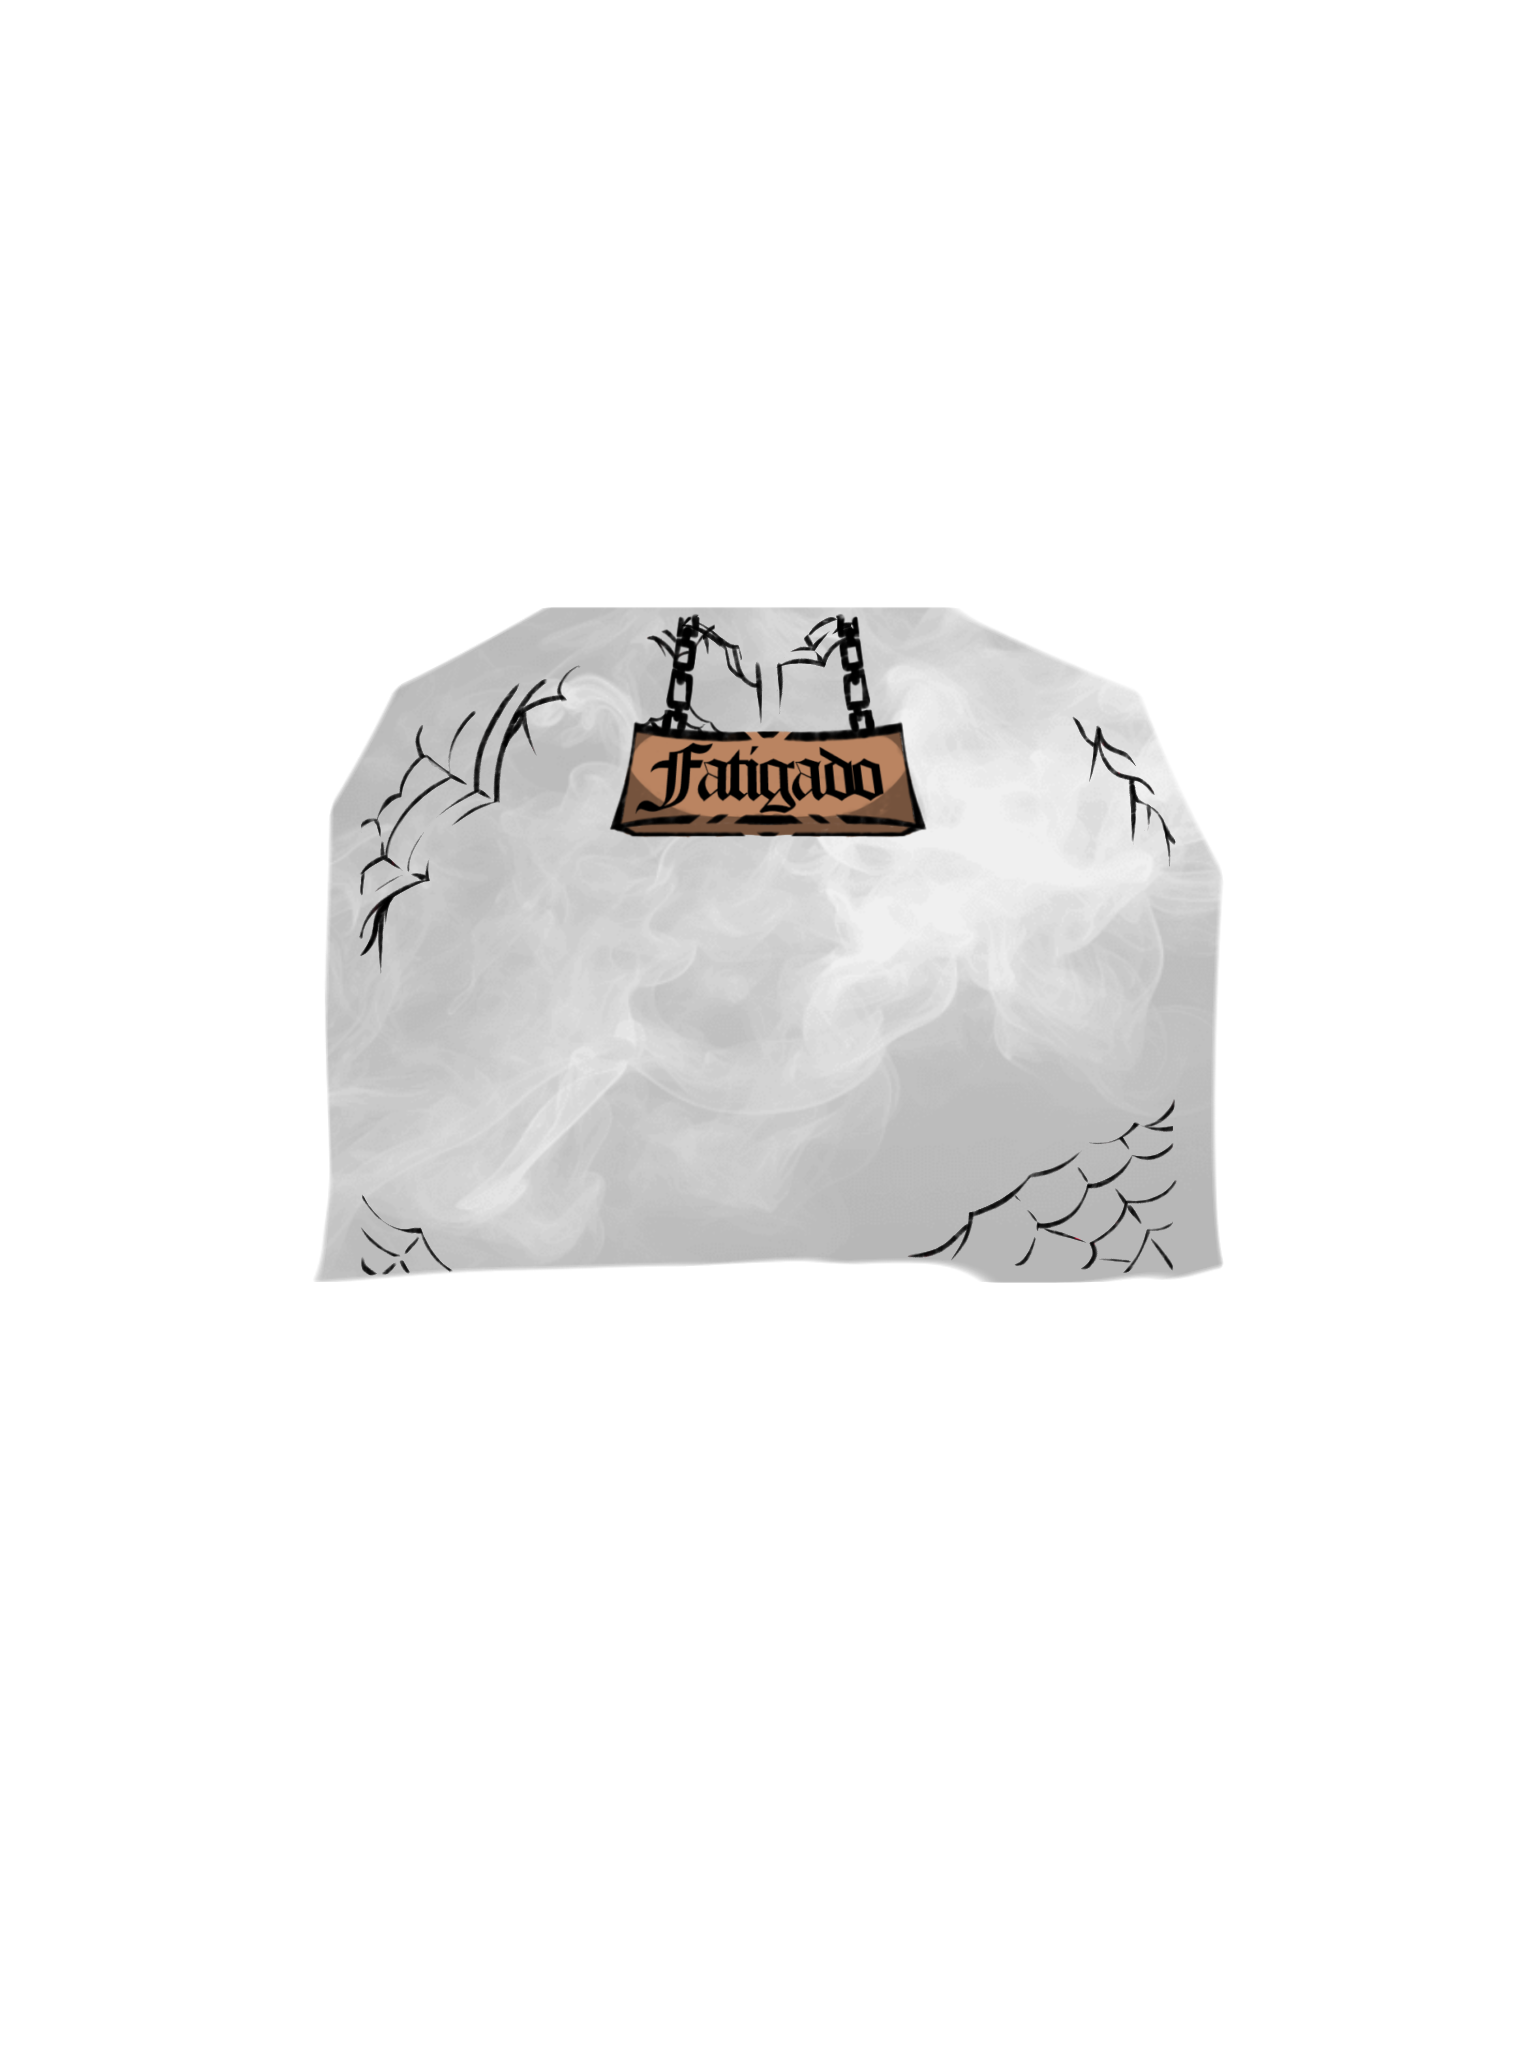
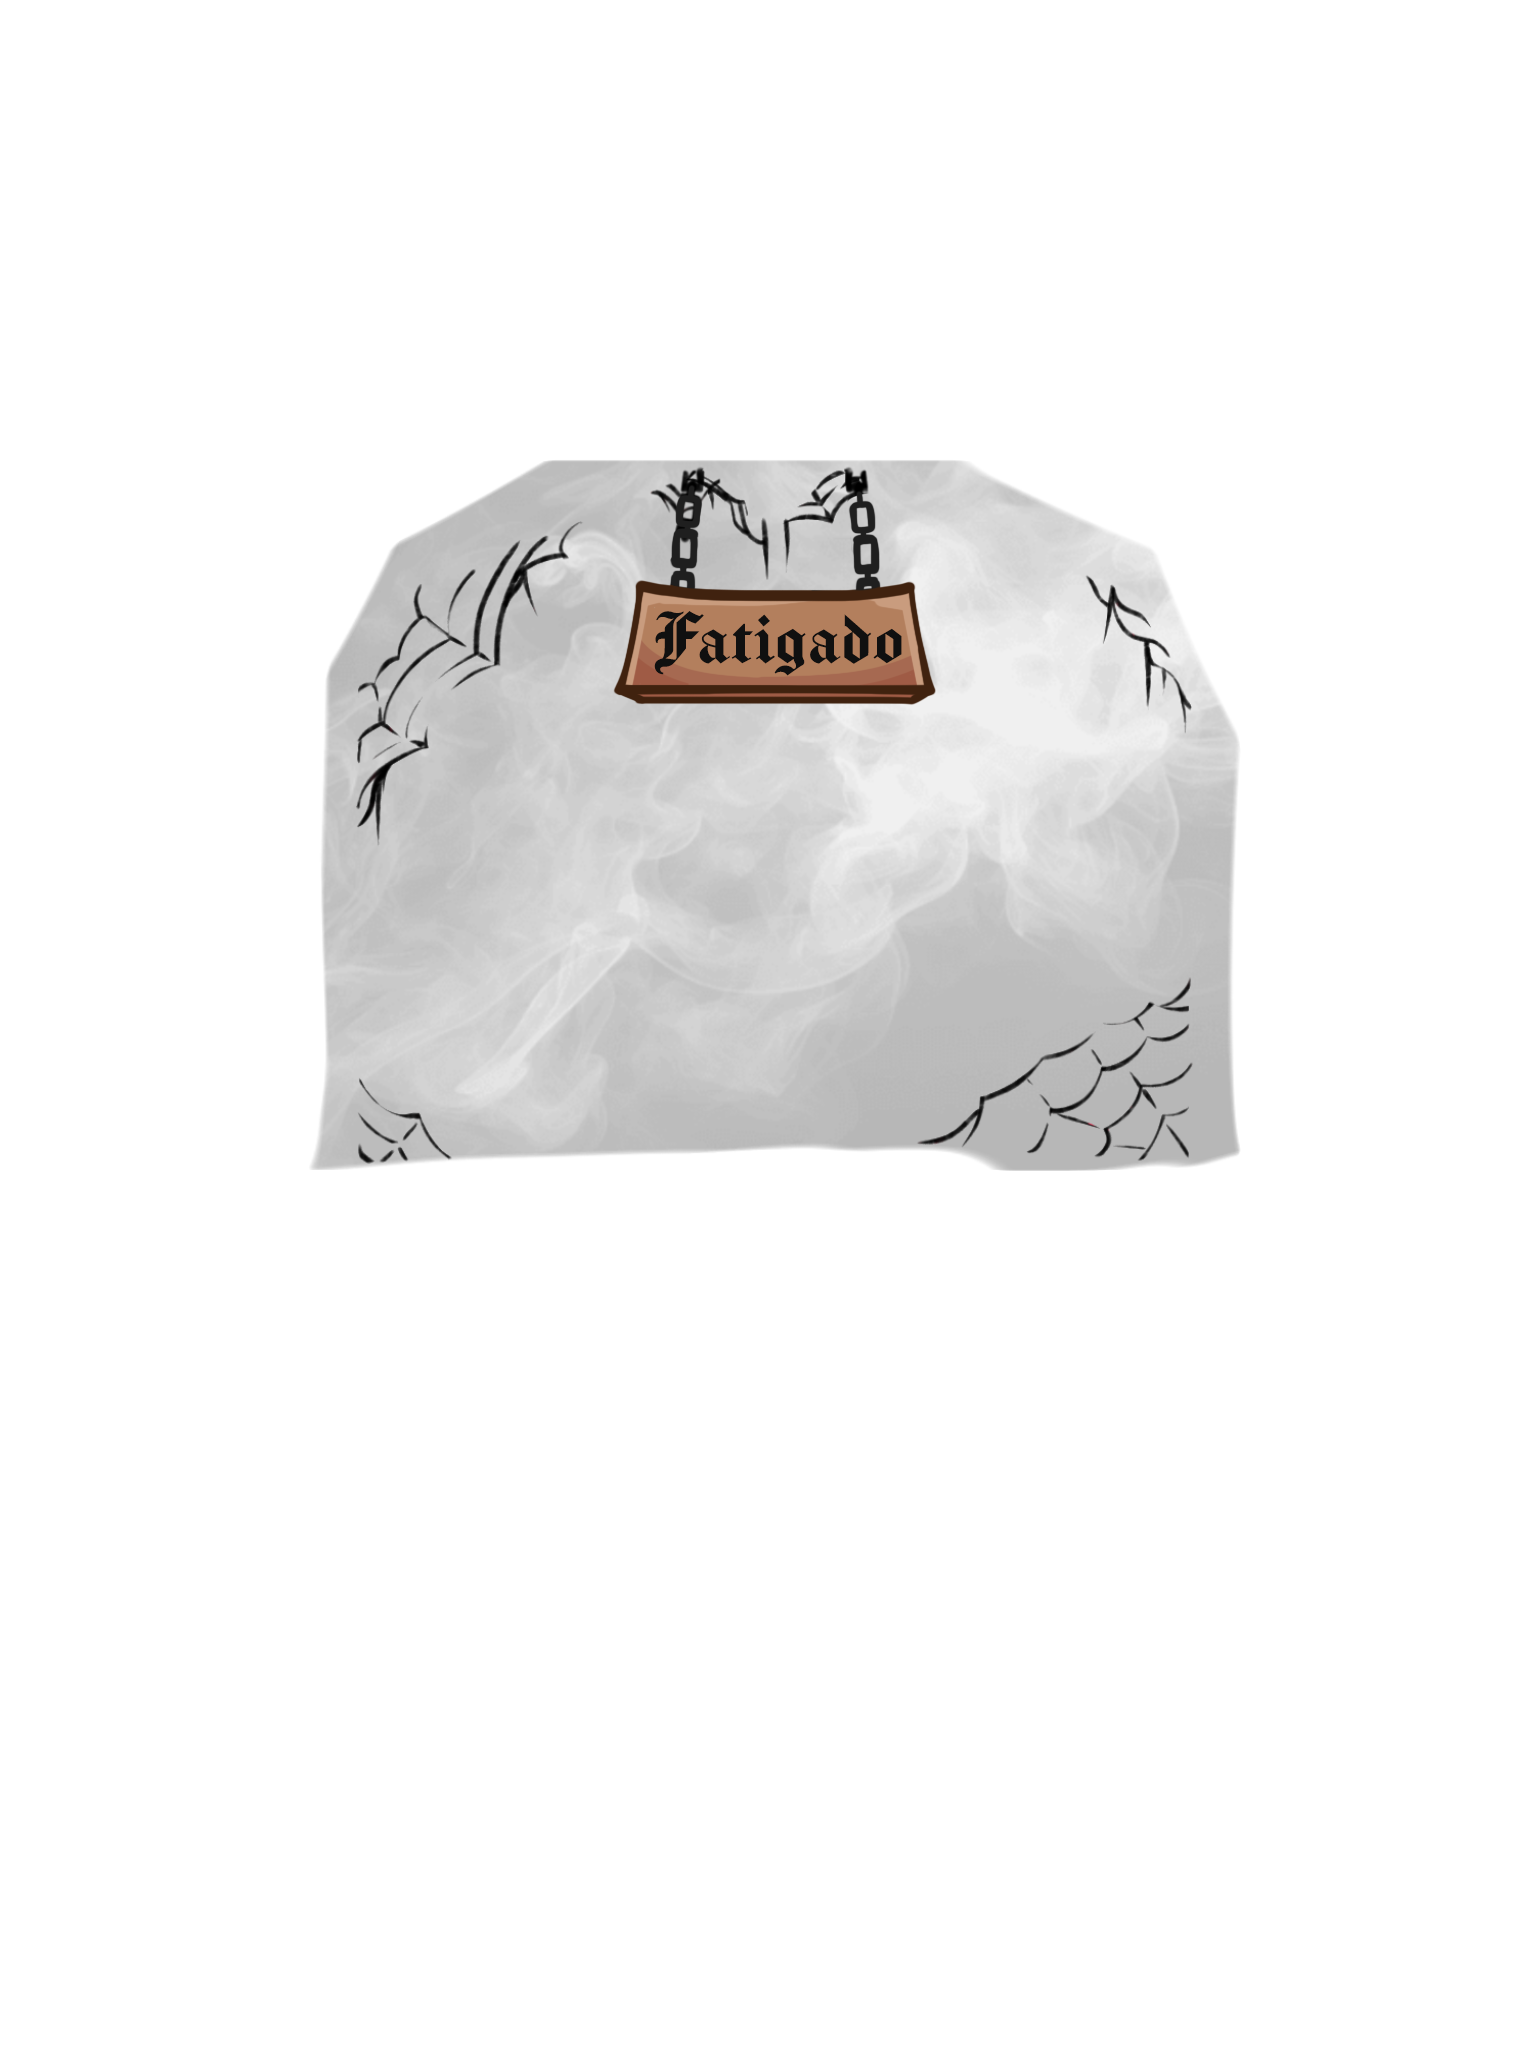
remake do layout de mythic bastionland

Changed region(s): [[0.1875, 0.2188, 0.8125, 0.625], [0.375, 0.5, 0.4375, 0.5312]]

diff --git a/pages/overlay/[id]/[charId].tsx b/pages/overlay/[id]/[charId].tsx
@@ -72,7 +72,7 @@ function OverlayCharacter() {
                 <img
                   src={character.icon}
                   alt={character.name}
-                  className="w-[12em] absolute left-[50%] top-[50%] translate-y-[-50%] translate-x-[-50%] select-none"
+                  className="w-[12em] absolute left-[50%] top-[42%] translate-y-[-50%] translate-x-[-50%] select-none"
                 />
                 {fatigadoStat?.value == true && (
                   <img
@@ -85,56 +85,60 @@ function OverlayCharacter() {
                   className="w-[20em] absolute left-[50%] top-[50%] translate-y-[-50%] translate-x-[-50%] select-none"
                 />
                 <img
+                  src="/overlays/mythic/luz.png"
+                  className="w-[20em] absolute left-[50%] top-[50%] translate-y-[-50%] translate-x-[-50.5%] select-none"
+                />
+                <img
                   src="/overlays/mythic/sombra.png"
                   className="w-[20em] mix-blend-multiply absolute left-[50%] top-[50%] translate-y-[-50%] translate-x-[-50%] select-none"
                 />
                 <img
-                  src="/overlays/mythic/line2.png"
+                  src="/overlays/mythic/line.png"
                   className="w-[20em] absolute left-[50%] top-[50%] translate-y-[-50%] translate-x-[-50%] select-none"
                 />
                 <div
-                  className={`absolute left-[50%] top-[62.5%] translate-y-[-50%] translate-x-[-50%] text-[1.5em] ${manufacturingConsent.className}`}>
+                  className={`absolute left-[50%] top-[56.5%] translate-y-[-50%] translate-x-[-50%] text-[1.85em] ${manufacturingConsent.className}`}>
                   {character.name}
                 </div>
-                <div className="absolute left-[50%] top-[22%] font-bold text-[1.75em] translate-y-[-50%] translate-x-[-50%] text-center">
+                <div className="absolute left-[50%] top-[17%] font-bold text-[1.75em] translate-y-[-50%] translate-x-[-50%] text-center">
                   {vigorStat?.value}
                 </div>
-                <div className="absolute left-[50%] top-[30.75%] font-bold text-[0.85em] translate-y-[-50%] translate-x-[-50%] text-center">
+                <div className="absolute left-[50%] top-[25.25%] font-bold text-[0.85em] translate-y-[-50%] translate-x-[-50%] text-center">
                   {vigorStat?.max}
                 </div>
-                <div className="absolute left-[24.5%] top-[30.95%] font-bold text-[1.3em] translate-y-[-50%] translate-x-[-50%] text-center">
+                <div className="absolute left-[24.5%] top-[25.5%] font-bold text-[1.3em] translate-y-[-50%] translate-x-[-50%] text-center">
                   {clarezaStat?.value}
                 </div>
-                <div className="absolute left-[18%] top-[34.5%] font-bold text-[0.85em] translate-y-[-50%] translate-x-[-50%] text-center">
+                <div className="absolute left-[18%] top-[29%] font-bold text-[0.85em] translate-y-[-50%] translate-x-[-50%] text-center">
                   {clarezaStat?.max}
                 </div>
-                <div className="absolute right-[24.5%] top-[30.95%] font-bold text-[1.3em] translate-y-[-50%] translate-x-[50%] text-center">
+                <div className="absolute right-[24.5%] top-[25.5%] font-bold text-[1.3em] translate-y-[-50%] translate-x-[50%] text-center">
                   {espiritoStat?.value}
                 </div>
-                <div className="absolute right-[18%] top-[34.5%] font-bold text-[0.85em] translate-y-[-50%] translate-x-[50%] text-center">
+                <div className="absolute right-[18%] top-[29%] font-bold text-[0.85em] translate-y-[-50%] translate-x-[50%] text-center">
                   {espiritoStat?.max}
                 </div>
-                <div className="absolute left-[50%] top-[72.4%] font-bold text-[1.85em] translate-y-[-50%] translate-x-[-50%] text-center">
+                <div className="absolute left-[50%] top-[70%] font-bold text-[1.85em] translate-y-[-50%] translate-x-[-50%] text-center">
                   {gloriaStat?.value}
                 </div>
-                <div className="absolute left-[22.5%] top-[71.2%] font-bold text-[1.3em] translate-y-[-50%] translate-x-[-50%] text-center">
+                <div className="absolute left-[24.5%] top-[65.5%] font-bold text-[1.3em] translate-y-[-50%] translate-x-[-50%] text-center">
                   {guardaStat?.value}
                 </div>
-                <div className="absolute left-[27.5%] top-[75%] font-bold text-[0.85em] translate-y-[-50%] translate-x-[-50%] text-center">
+                <div className="absolute left-[29.5%] top-[69.5%] font-bold text-[0.85em] translate-y-[-50%] translate-x-[-50%] text-center">
                   {guardaStat?.max}
                 </div>
-                <div className="absolute right-[22.5%] top-[71.2%] font-bold text-[1.3em] translate-y-[-50%] translate-x-[50%] text-center">
+                <div className="absolute right-[25%] top-[65.5%] font-bold text-[1.3em] translate-y-[-50%] translate-x-[50%] text-center">
                   {armaduraStat?.value}
                 </div>
-                <div className="absolute right-[27.5%] top-[75%] font-bold text-[0.85em] translate-y-[-50%] translate-x-[50%] text-center">
+                <div className="absolute right-[30%] top-[69.5%] font-bold text-[0.85em] translate-y-[-50%] translate-x-[50%] text-center">
                   {armaduraStat?.value}
                 </div>
                 <div
-                  className={`absolute left-[20%] top-[77%] font-bold text-[1.2em] translate-y-[-50%] translate-x-[-50%] text-center ${manufacturingConsent.className}`}>
+                  className={`absolute left-[36%] top-[64.5%] font-bold text-[1.2em] translate-y-[-50%] translate-x-[-50%] text-center ${manufacturingConsent.className}`}>
                   GD
                 </div>
                 <div
-                  className={`absolute right-[20%] top-[77%] font-bold text-[1.6em] translate-y-[-50%] translate-x-[50%] text-center ${manufacturingConsent.className}`}>
+                  className={`absolute right-[36%] top-[64%] font-bold text-[1.4em] translate-y-[-50%] translate-x-[50%] text-center ${manufacturingConsent.className}`}>
                   A
                 </div>
               </div>

diff --git a/pages/overlay/[id].tsx b/pages/overlay/[id].tsx
@@ -64,7 +64,7 @@ function Overlay() {
                 <img
                   src={character.icon}
                   alt={character.name}
-                  className="w-[12em] absolute left-[50%] top-[50%] translate-y-[-50%] translate-x-[-50%] select-none"
+                  className="w-[12em] absolute left-[50%] top-[42%] translate-y-[-50%] translate-x-[-50%] select-none"
                 />
                 {fatigadoStat?.value == true && (
                   <img
@@ -77,56 +77,60 @@ function Overlay() {
                   className="w-[20em] absolute left-[50%] top-[50%] translate-y-[-50%] translate-x-[-50%] select-none"
                 />
                 <img
+                  src="/overlays/mythic/luz.png"
+                  className="w-[20em] absolute left-[50%] top-[50%] translate-y-[-50%] translate-x-[-50.5%] select-none"
+                />
+                <img
                   src="/overlays/mythic/sombra.png"
                   className="w-[20em] mix-blend-multiply absolute left-[50%] top-[50%] translate-y-[-50%] translate-x-[-50%] select-none"
                 />
                 <img
-                  src="/overlays/mythic/line2.png"
+                  src="/overlays/mythic/line.png"
                   className="w-[20em] absolute left-[50%] top-[50%] translate-y-[-50%] translate-x-[-50%] select-none"
                 />
                 <div
-                  className={`absolute left-[50%] top-[62.5%] translate-y-[-50%] translate-x-[-50%] text-[1.5em] ${manufacturingConsent.className}`}>
+                  className={`absolute left-[50%] top-[56.5%] translate-y-[-50%] translate-x-[-50%] text-[1.85em] ${manufacturingConsent.className}`}>
                   {character.name}
                 </div>
-                <div className="absolute left-[50%] top-[22%] font-bold text-[1.75em] translate-y-[-50%] translate-x-[-50%] text-center">
+                <div className="absolute left-[50%] top-[17%] font-bold text-[1.75em] translate-y-[-50%] translate-x-[-50%] text-center">
                   {vigorStat?.value}
                 </div>
-                <div className="absolute left-[50%] top-[30.75%] font-bold text-[0.85em] translate-y-[-50%] translate-x-[-50%] text-center">
+                <div className="absolute left-[50%] top-[25.25%] font-bold text-[0.85em] translate-y-[-50%] translate-x-[-50%] text-center">
                   {vigorStat?.max}
                 </div>
-                <div className="absolute left-[24.5%] top-[30.95%] font-bold text-[1.3em] translate-y-[-50%] translate-x-[-50%] text-center">
+                <div className="absolute left-[24.5%] top-[25.5%] font-bold text-[1.3em] translate-y-[-50%] translate-x-[-50%] text-center">
                   {clarezaStat?.value}
                 </div>
-                <div className="absolute left-[18%] top-[34.5%] font-bold text-[0.85em] translate-y-[-50%] translate-x-[-50%] text-center">
+                <div className="absolute left-[18%] top-[29%] font-bold text-[0.85em] translate-y-[-50%] translate-x-[-50%] text-center">
                   {clarezaStat?.max}
                 </div>
-                <div className="absolute right-[24.5%] top-[30.95%] font-bold text-[1.3em] translate-y-[-50%] translate-x-[50%] text-center">
+                <div className="absolute right-[24.5%] top-[25.5%] font-bold text-[1.3em] translate-y-[-50%] translate-x-[50%] text-center">
                   {espiritoStat?.value}
                 </div>
-                <div className="absolute right-[18%] top-[34.5%] font-bold text-[0.85em] translate-y-[-50%] translate-x-[50%] text-center">
+                <div className="absolute right-[18%] top-[29%] font-bold text-[0.85em] translate-y-[-50%] translate-x-[50%] text-center">
                   {espiritoStat?.max}
                 </div>
-                <div className="absolute left-[50%] top-[72.4%] font-bold text-[1.85em] translate-y-[-50%] translate-x-[-50%] text-center">
+                <div className="absolute left-[50%] top-[70%] font-bold text-[1.85em] translate-y-[-50%] translate-x-[-50%] text-center">
                   {gloriaStat?.value}
                 </div>
-                <div className="absolute left-[22.5%] top-[71.2%] font-bold text-[1.3em] translate-y-[-50%] translate-x-[-50%] text-center">
+                <div className="absolute left-[24.5%] top-[65.5%] font-bold text-[1.3em] translate-y-[-50%] translate-x-[-50%] text-center">
                   {guardaStat?.value}
                 </div>
-                <div className="absolute left-[27.5%] top-[75%] font-bold text-[0.85em] translate-y-[-50%] translate-x-[-50%] text-center">
+                <div className="absolute left-[29.5%] top-[69.5%] font-bold text-[0.85em] translate-y-[-50%] translate-x-[-50%] text-center">
                   {guardaStat?.max}
                 </div>
-                <div className="absolute right-[22.5%] top-[71.2%] font-bold text-[1.3em] translate-y-[-50%] translate-x-[50%] text-center">
+                <div className="absolute right-[25%] top-[65.5%] font-bold text-[1.3em] translate-y-[-50%] translate-x-[50%] text-center">
                   {armaduraStat?.value}
                 </div>
-                <div className="absolute right-[27.5%] top-[75%] font-bold text-[0.85em] translate-y-[-50%] translate-x-[50%] text-center">
+                <div className="absolute right-[30%] top-[69.5%] font-bold text-[0.85em] translate-y-[-50%] translate-x-[50%] text-center">
                   {armaduraStat?.value}
                 </div>
                 <div
-                  className={`absolute left-[20%] top-[77%] font-bold text-[1.2em] translate-y-[-50%] translate-x-[-50%] text-center ${manufacturingConsent.className}`}>
+                  className={`absolute left-[36%] top-[64.5%] font-bold text-[1.2em] translate-y-[-50%] translate-x-[-50%] text-center ${manufacturingConsent.className}`}>
                   GD
                 </div>
                 <div
-                  className={`absolute right-[20%] top-[77%] font-bold text-[1.6em] translate-y-[-50%] translate-x-[50%] text-center ${manufacturingConsent.className}`}>
+                  className={`absolute right-[36%] top-[64%] font-bold text-[1.4em] translate-y-[-50%] translate-x-[50%] text-center ${manufacturingConsent.className}`}>
                   A
                 </div>
               </div>

diff --git a/pages/overlay/mythic.tsx b/pages/overlay/mythic.tsx
@@ -23,8 +23,7 @@ const MythicColor = ({
       {...rest} // Passamos todas as props de SVG, incluindo className
     >
       <g transform="translate(0.000000,400.000000) scale(0.100000,-0.100000)" fill={color} stroke="none">
-        {" "}
-        <path d="M1455 3673 c-105 -119 -320 -243 -503 -288 -97 -24 -114 -25 -405 -25 l-304 0 -22 -24 c-14 -15 -19 -26 -12 -31 14 -8 14 -135 0 -194 -5 -24 -7 -46 -4 -49 6 -6 39 10 84 43 44 32 61 20 61 -44 0 -25 5 -118 12 -207 14 -187 4 -285 -38 -391 -30 -75 -32 -108 -9 -173 9 -25 29 -95 46 -156 45 -173 39 -268 -28 -429 -23 -53 -25 -69 -21 -160 4 -82 10 -110 32 -156 42 -89 50 -154 31 -257 -9 -48 -20 -102 -26 -119 -6 -18 -17 -74 -24 -125 -8 -51 -19 -113 -25 -138 -19 -85 -23 -299 -7 -385 19 -105 72 -230 118 -279 l36 -39 7 38 c25 132 148 256 376 378 152 82 345 149 623 218 47 12 79 6 294 -55 181 -50 296 -95 423 -163 228 -122 339 -232 374 -372 l12 -43 35 39 c45 50 96 171 116 277 17 87 13 296 -7 386 -6 25 -17 88 -25 140 -7 53 -18 107 -23 121 -6 13 -17 67 -26 120 -19 110 -12 169 31 258 21 46 27 75 31 156 4 91 2 107 -21 160 -79 189 -78 274 9 552 32 104 33 125 0 205 -41 104 -50 196 -37 398 6 96 12 192 13 213 3 60 21 65 75 23 54 -42 79 -47 68 -13 -14 45 -18 214 -6 222 9 5 6 14 -10 31 l-22 24 -304 0 c-291 0 -308 1 -405 25 -182 45 -392 165 -506 289 -23 25 -43 46 -45 45 -1 0 -20 -21 -42 -46z m-13 -930 l58 -57 53 52 c29 29 59 52 67 52 8 0 136 -51 284 -113 l270 -112 58 -84 58 -84 0 -445 0 -444 -47 6 c-131 17 -643 51 -753 50 -106 0 -552 -31 -727 -50 l-53 -5 0 440 0 441 56 88 c56 86 58 88 128 117 39 16 163 68 276 117 113 48 207 87 210 88 2 0 30 -26 62 -57z" />{" "}
+        <path d="M1454 3937 c-82 -106 -250 -210 -434 -271 -119 -39 -187 -46 -490 -46 -255 -1 -287 -3 -305 -18 -18 -15 -20 -30 -21 -160 -1 -79 2 -142 7 -140 4 2 18 18 31 37 13 19 29 37 37 39 16 5 13 -165 -10 -693 -6 -144 -9 -418 -6 -615 5 -356 10 -416 52 -619 12 -59 17 -184 23 -571 l7 -494 224 -178 c205 -161 226 -176 246 -165 12 7 126 80 253 162 210 136 232 153 232 178 0 15 6 27 13 27 22 0 115 -59 152 -96 l36 -36 48 45 c47 44 84 68 129 81 19 6 22 4 22 -21 0 -26 21 -41 245 -185 134 -87 250 -159 255 -160 6 -2 112 76 234 172 l223 175 6 284 c4 156 7 379 7 496 0 174 3 227 20 303 43 198 54 336 53 707 -1 193 -6 454 -12 580 -22 448 -25 625 -12 625 6 0 24 -18 39 -40 28 -40 50 -47 44 -14 -2 10 -5 74 -7 142 -3 106 -6 125 -22 137 -14 12 -75 14 -303 15 -157 0 -313 5 -346 10 -209 34 -472 172 -574 302 -23 29 -45 54 -49 55 -3 1 -24 -22 -47 -50z m-12 -934 l58 -57 59 58 59 59 277 -115 276 -115 57 -84 57 -84 3 -452 4 -453 -29 0 c-16 0 -181 14 -366 30 -186 17 -365 30 -400 30 -34 0 -213 -13 -397 -30 -184 -16 -348 -30 -364 -30 l-29 0 7 453 7 452 57 84 57 85 270 113 c149 62 272 113 275 113 2 0 30 -26 62 -57z" />{" "}
       </g>
     </svg>
   );
